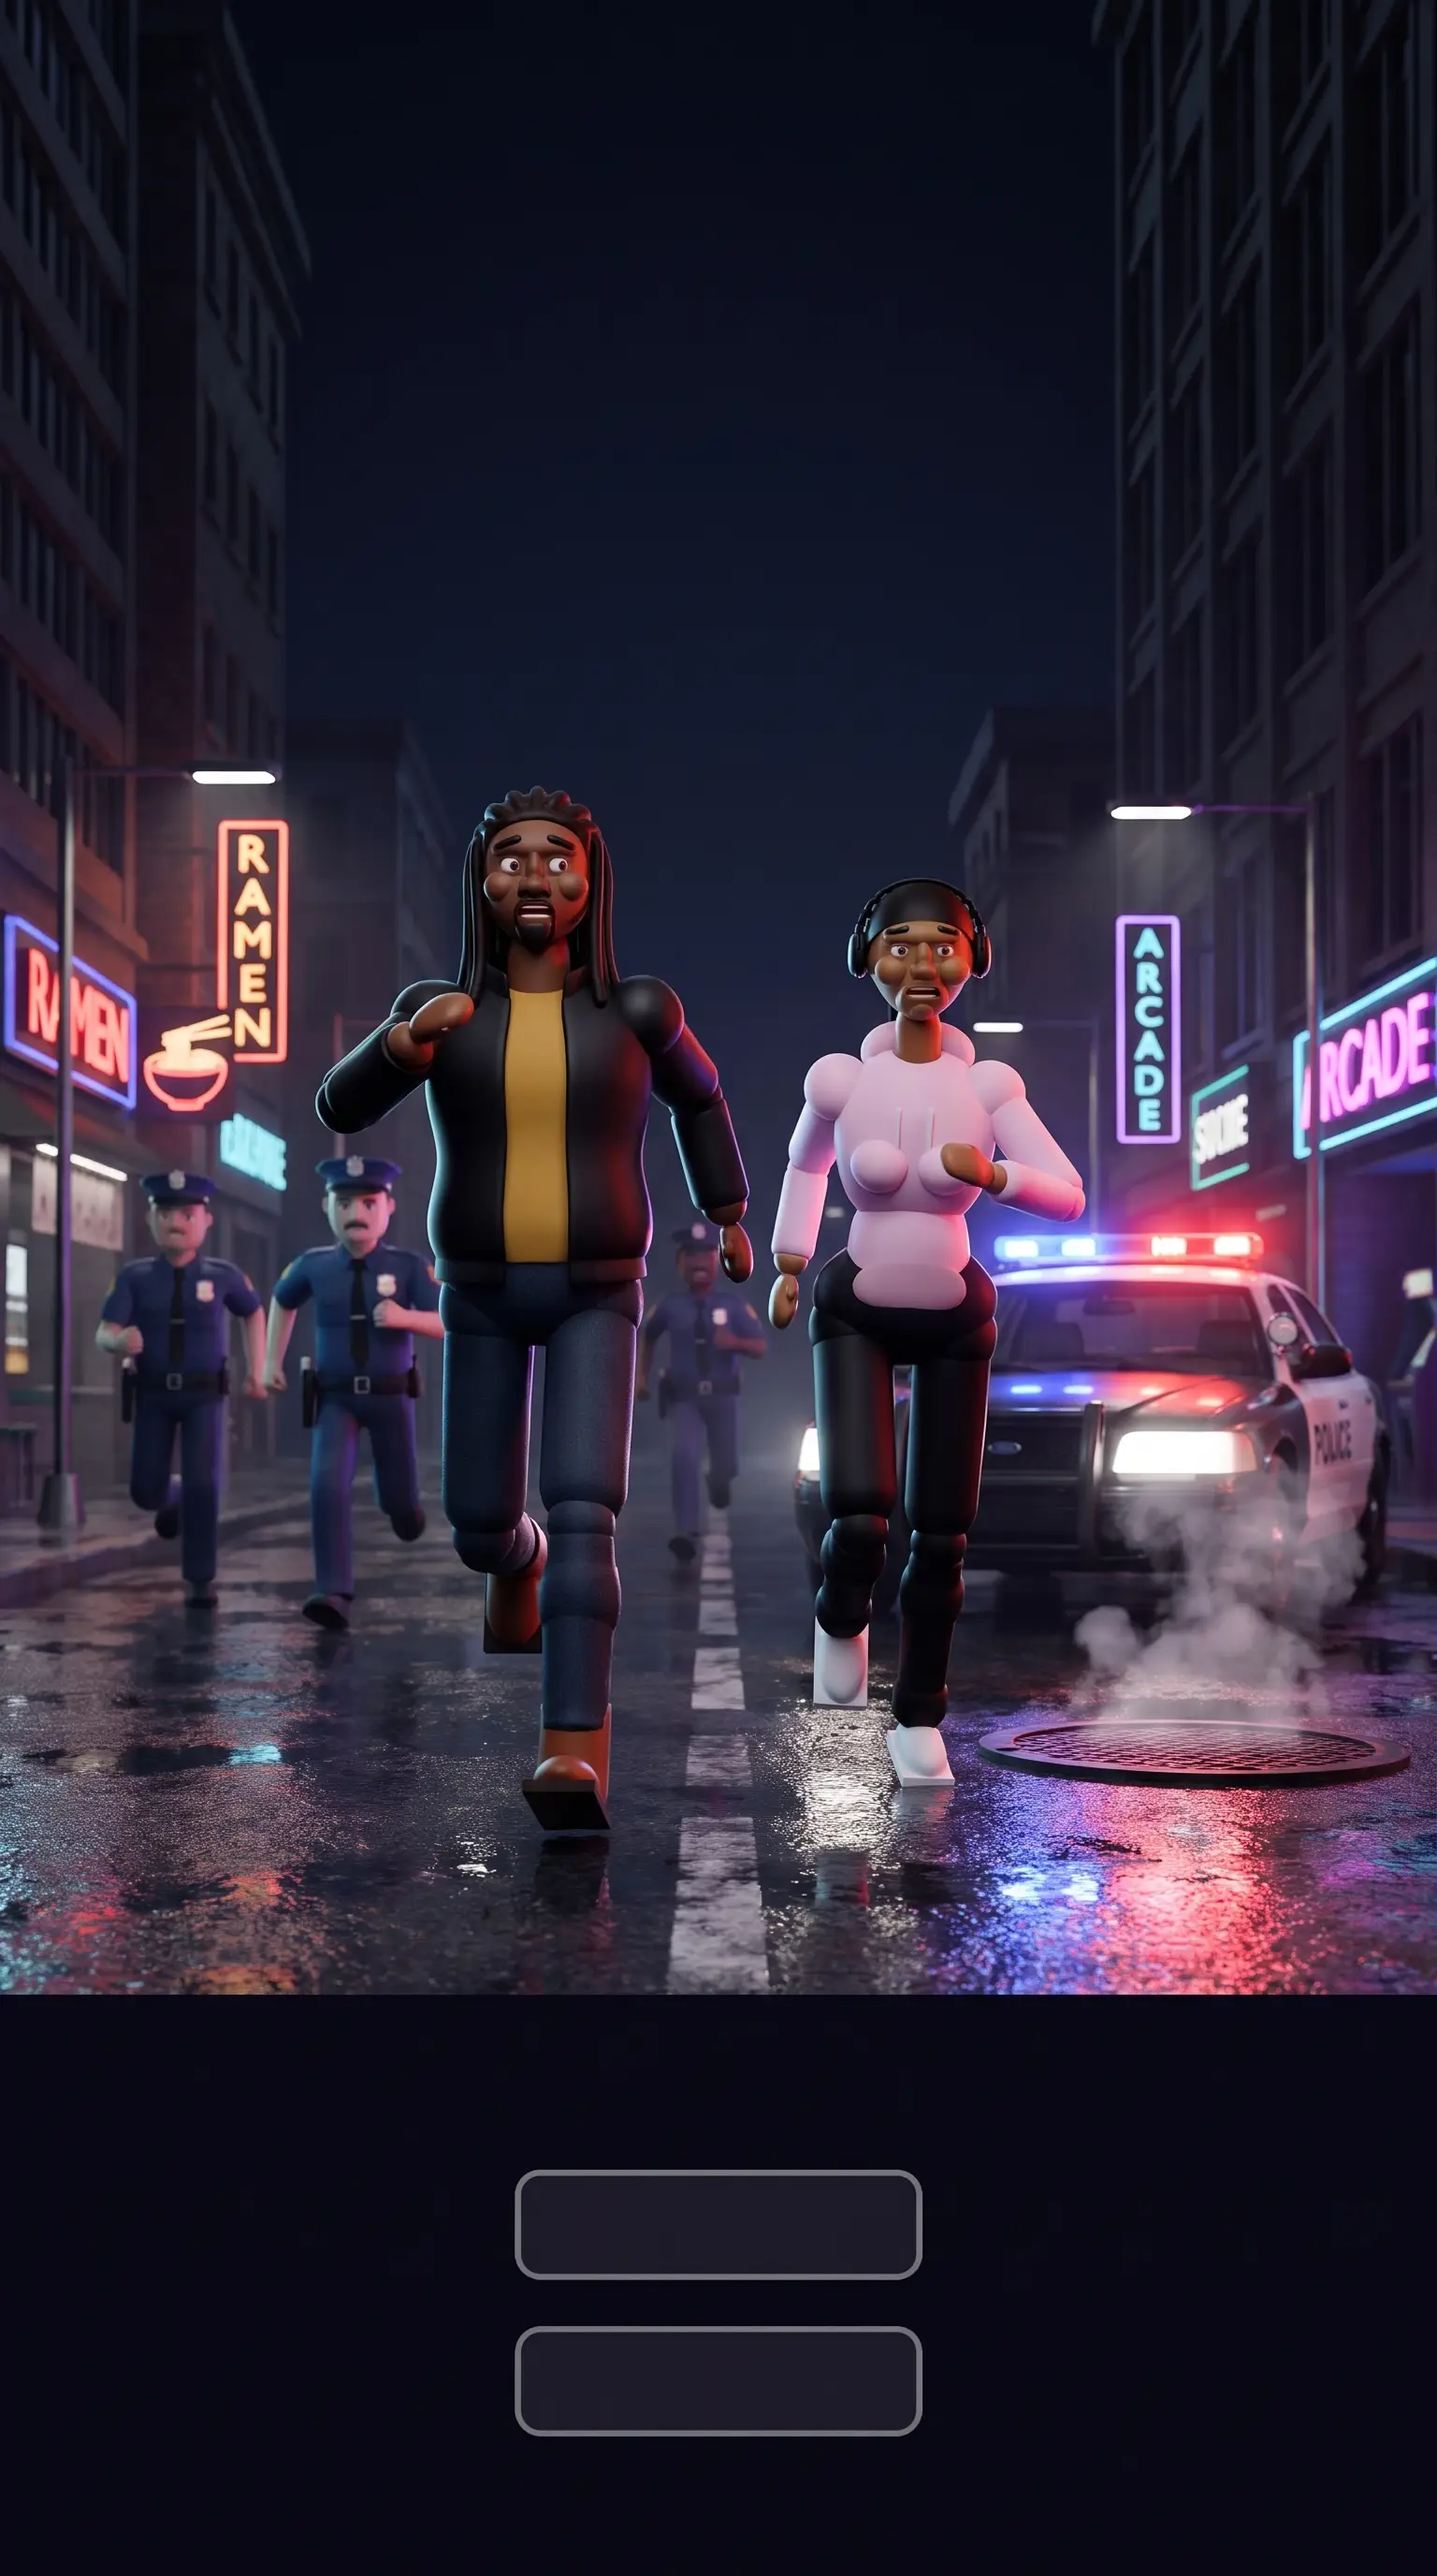
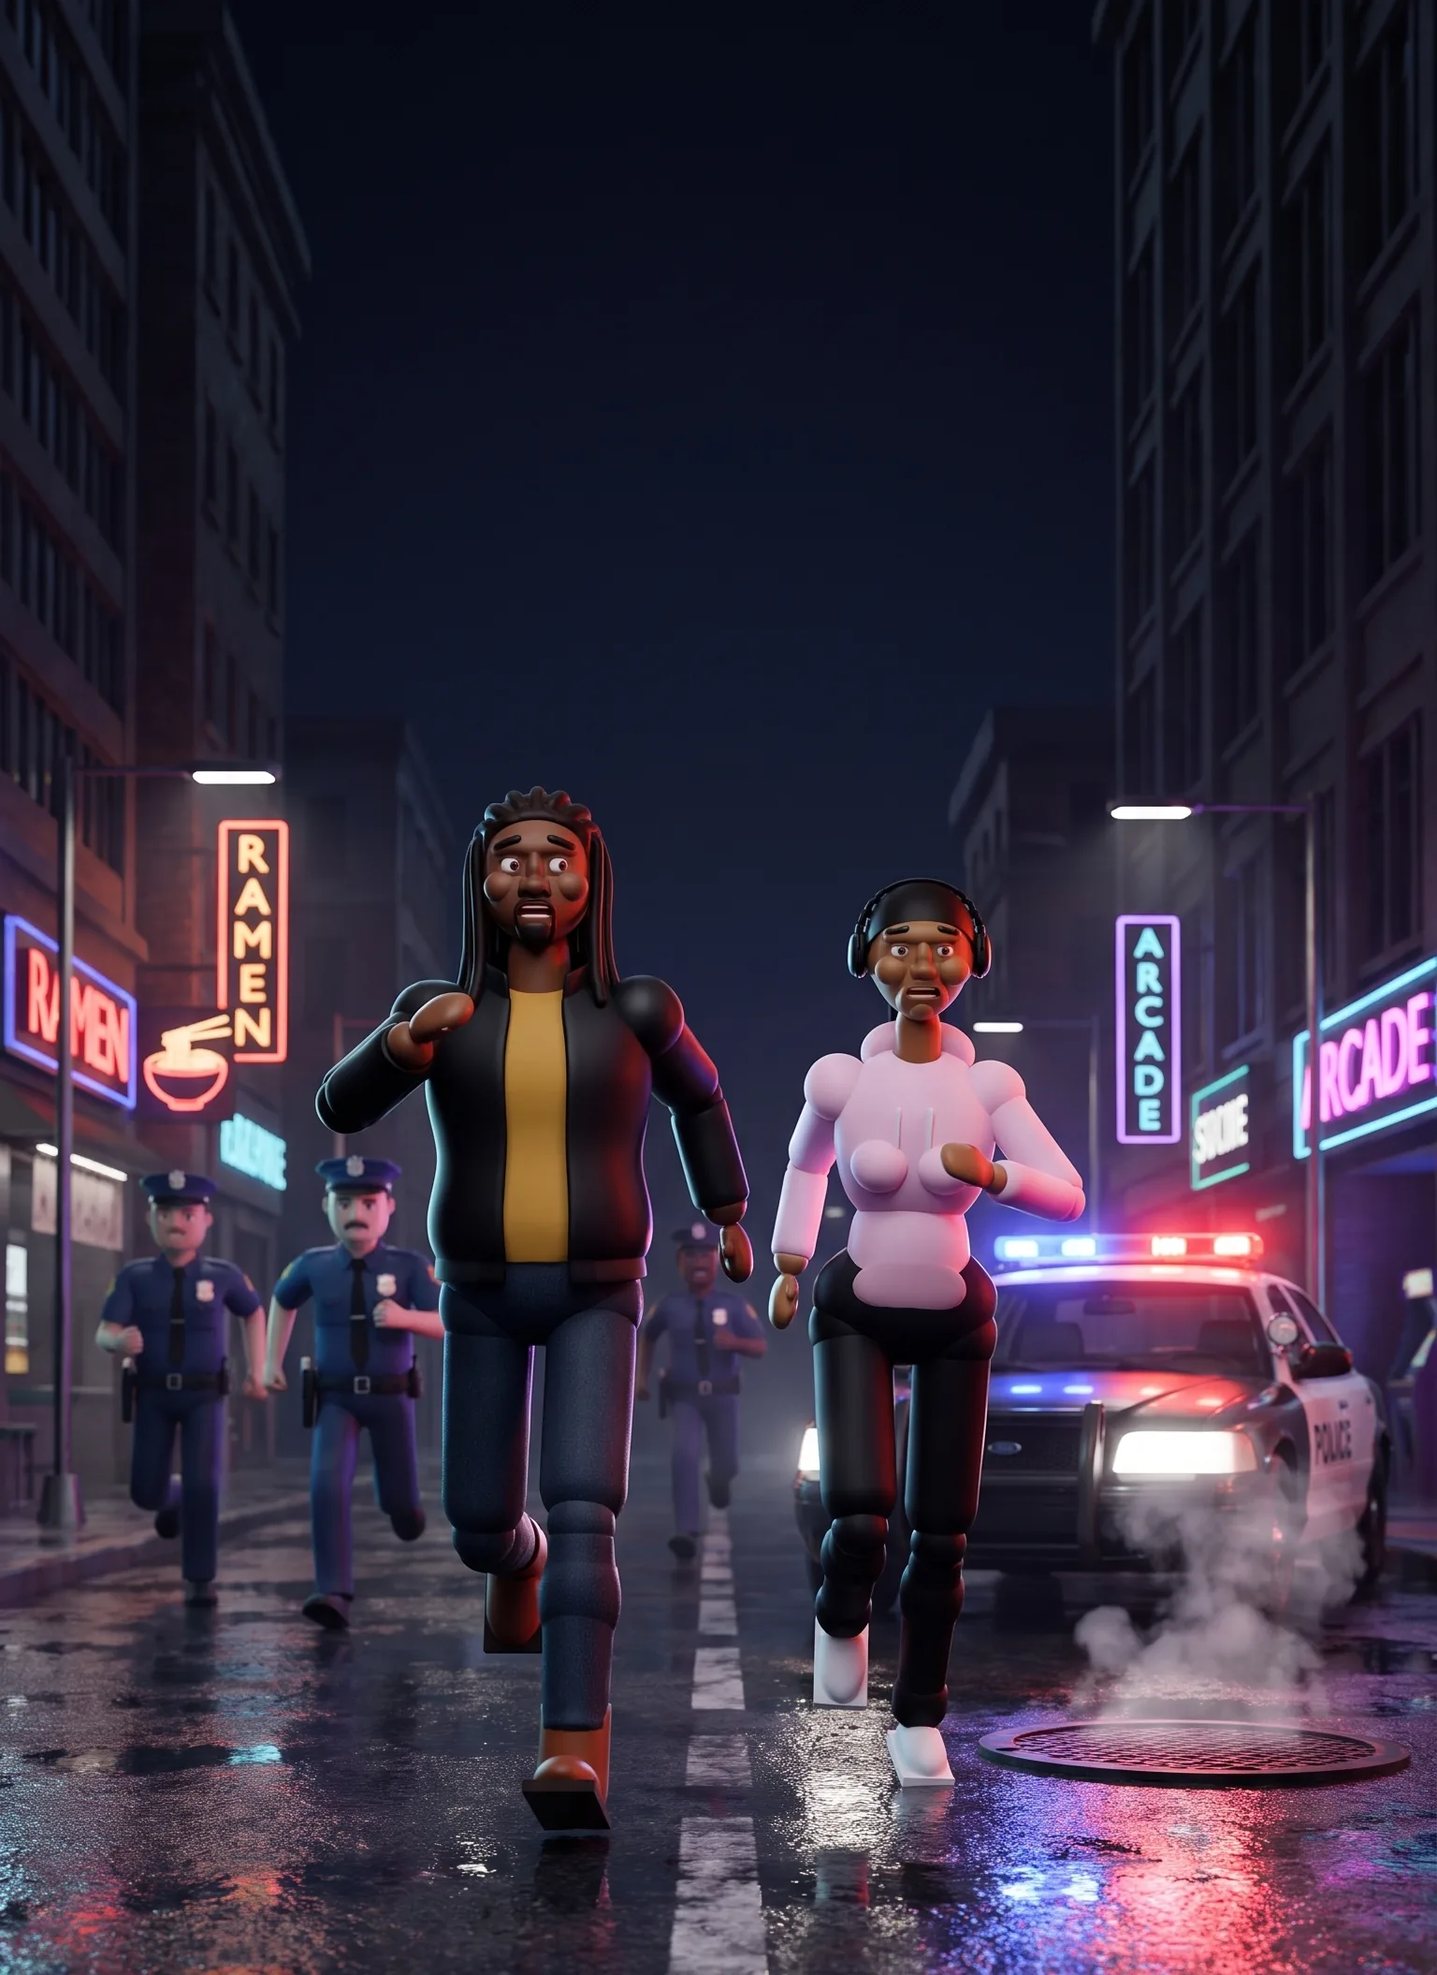
Add Death Avenue start screen with chase key art
Claude-Session: https://claude.ai/code/session_017cgwRAE4WRPM21wYVjFKr2

diff --git a/index.html b/index.html
@@ -10,7 +10,8 @@
 <link rel="apple-touch-icon" href="apple-touch-icon.png">
 <link rel="manifest" href="manifest.webmanifest">
 <meta name="apple-mobile-web-app-title" content="Death Avenue">
-<meta property="og:image" content="icon-512.png">
+<meta property="og:image" content="art/start.webp">
+<link rel="preload" as="image" href="art/start.webp">
 <style>:root{padding-top:env(safe-area-inset-top,0px);padding-bottom:env(safe-area-inset-bottom,0px)}body{margin:0;font:14px system-ui,sans-serif}img{max-width:100%}[hidden]{display:none!important}</style>
 <title>Death Avenue</title>
 <link rel="preconnect" href="https://fonts.googleapis.com">
@@ -21,7 +22,7 @@
 :root{
   --ink:#0c0e13; --solid:#151821; --raise:#1f2330; --panel:rgba(17,19,27,.78);
   --line:rgba(236,238,255,.12); --fg:#f2f1ee; --dim:#a3a7b5;
-  --accent:#9fadff; --accent-ink:#11152e; --mint:#72e6c6; --warn:#ffb36b; --danger:#ff8a80;
+  --accent:#9fadff;--siren:#ff3d3d;--siren-blue:#3d7bff; --accent-ink:#11152e; --mint:#72e6c6; --warn:#ffb36b; --danger:#ff8a80;
   --bubble:#fbfaf7; --bubble-ink:#15161b;
   --display:"Bricolage Grotesque","Arial Narrow",system-ui,sans-serif;
   --body:"Figtree",system-ui,-apple-system,"Segoe UI",sans-serif;
@@ -39,13 +40,27 @@ button:focus-visible,input:focus-visible{outline:2px solid var(--accent);outline
 .glass{background:var(--panel);-webkit-backdrop-filter:blur(16px);backdrop-filter:blur(16px);border:1px solid var(--line)}
 
 /* menu */
-#menu{position:fixed;inset:0;display:flex;flex-direction:column;justify-content:flex-end;
+#menu{position:fixed;inset:0;display:flex;flex-direction:column;justify-content:space-between;isolation:isolate;overflow:hidden;
   background:linear-gradient(to bottom,rgba(12,14,19,0) 18%,rgba(12,14,19,.55) 45%,rgba(12,14,19,.94) 72%,var(--ink));
   padding:calc(24px + env(safe-area-inset-top,0px)) max(20px,env(safe-area-inset-right,0px)) calc(26px + env(safe-area-inset-bottom,0px)) max(20px,env(safe-area-inset-left,0px))}
-.menu-card{max-width:440px;width:100%;margin:0 auto;display:grid;gap:14px}
+.menu-card{max-width:440px;width:100%;margin:0 auto;display:grid;gap:14px;position:relative;z-index:2}
+.menu-top{max-width:440px;width:100%;margin:0 auto;display:grid;gap:10px;position:relative;z-index:2;padding-top:6px}
+#menuArt{position:absolute;inset:0;width:100%;height:100%;object-fit:cover;object-position:50% 45%;z-index:0;opacity:0;transition:opacity .8s;transform-origin:50% 45%}
+#menu.has-art #menuArt{opacity:1;animation:kenburns 22s ease-in-out infinite alternate}
+#menu::before{content:"";position:absolute;inset:0;z-index:1;pointer-events:none;opacity:0;transition:opacity .8s;
+  background:linear-gradient(to bottom,rgba(8,9,13,.78) 0%,rgba(8,9,13,.15) 24%,rgba(8,9,13,0) 42%,rgba(8,9,13,.55) 62%,rgba(8,9,13,.95) 82%,#08090d 100%)}
+#menu::after{content:"";position:absolute;inset:0;z-index:1;pointer-events:none;opacity:0;mix-blend-mode:screen;
+  background:radial-gradient(60% 30% at 20% 52%,rgba(255,61,61,.35),transparent 70%),radial-gradient(60% 30% at 80% 52%,rgba(61,123,255,.35),transparent 70%)}
+#menu.has-art{background:#08090d}
+#menu.has-art::before{opacity:1}
+#menu.has-art::after{animation:siren 1.1s steps(2,end) infinite}
+@keyframes kenburns{from{transform:scale(1.02)}to{transform:scale(1.09) translateY(-1%)}}
+@keyframes siren{0%{opacity:.55;filter:hue-rotate(0deg)}50%{opacity:.25;filter:hue-rotate(180deg)}100%{opacity:.55}}
+#menu.has-art h1{text-shadow:0 6px 28px rgba(0,0,0,.65)}
+#menu.has-art .lede{color:#d6d8df;text-shadow:0 2px 10px rgba(0,0,0,.6)}
 .eyebrow{font:700 12px/1 var(--body);letter-spacing:.16em;text-transform:uppercase;color:var(--mint);margin:0}
 h1{font:800 clamp(64px,19vw,104px)/.84 var(--display);letter-spacing:-.045em;margin:0;text-wrap:balance}
-h1 span{color:var(--accent)}
+h1 span{color:var(--siren)}
 .lede{color:var(--dim);font-size:16px;line-height:1.45;max-width:36ch;margin:0}
 .menu-actions{display:grid;gap:10px;margin-top:6px}
 .btn{appearance:none;border:1px solid var(--line);background:var(--raise);font:700 16px/1 var(--body);padding:17px 18px;border-radius:16px;display:flex;justify-content:space-between;align-items:center;gap:12px;text-align:left}
@@ -223,10 +238,13 @@ input[type=text]{width:100%;background:var(--raise);border:1px solid var(--line)
   <div id="flash"></div>
 
   <section id="menu" class="block">
-    <div class="menu-card">
+    <img id="menuArt" alt="" decoding="async">
+    <div class="menu-top">
       <p class="eyebrow">Life-size AR people</p>
       <h1>Death<br><span>Avenue</span></h1>
-      <p class="lede">Design people from head to sneakers and hang out with them in a life-size room. Move your phone to look around, walk up to them, and watch them wander, sit down and react when you bump into them.</p>
+    </div>
+    <div class="menu-card">
+      <p class="lede">Build your crew, walk your real streets, and keep one step ahead of the cops on Death Avenue.</p>
       <div class="menu-actions">
         <button id="btnAR" class="btn primary"><span>Start AR<br><small>Move your phone to look around</small></span><svg viewBox="0 0 24 24" fill="none" stroke="currentColor" stroke-width="2" stroke-linecap="round" stroke-linejoin="round"><path d="M3 8V5a2 2 0 0 1 2-2h3M16 3h3a2 2 0 0 1 2 2v3M21 16v3a2 2 0 0 1-2 2h-3M8 21H5a2 2 0 0 1-2-2v-3"/><circle cx="12" cy="12" r="3.5"/></svg></button>
         <div class="menu-grid">
@@ -2005,6 +2023,7 @@ renderer.setAnimationLoop((time,frame)=>{
  const now=performance.now(),dt=Math.min(.05,Math.max(.001,(now-last)/1000)),t=now/1000;last=now;
  if(cr.open&&!cr.inXR){creatorTick(dt,t);renderCreator(dt,t);return;}
  if(mode==='gps'){gpsFrame(dt,t);return;}
+ if(mode==='menu'&&W.menuArt&&!$('#menu').hidden)return;
  updateWorld(dt,t,frame);
  if(cr.open&&cr.inXR)creatorTick(dt,t);
  if(mode!=='menu')updateHands(dt);
@@ -2014,6 +2033,8 @@ renderer.setAnimationLoop((time,frame)=>{
 });
 addEventListener('resize',()=>{if(renderer.xr.isPresenting)return;renderer.setSize(innerWidth,innerHeight,false);camera.aspect=innerWidth/innerHeight;camera.updateProjectionMatrix();if(gps.cam){gps.cam.aspect=innerWidth/innerHeight;gps.cam.updateProjectionMatrix();}document.documentElement.style.setProperty('--ph',previewH()+'px');});
 
+const MENU_ART=['art/start.webp'];
+(function loadMenuArt(){const img=$('#menuArt');let i=0;img.onload=()=>{$('#menu').classList.add('has-art');W.menuArt=true;};img.onerror=()=>{i++;if(i<MENU_ART.length)img.src=MENU_ART[i];else img.hidden=true;};img.src=MENU_ART[0];})();
 (async function boot(){
  enterMenu();
  let ok=false;try{ok=!!(navigator.xr&&await navigator.xr.isSessionSupported('immersive-ar'));}catch(e){}
